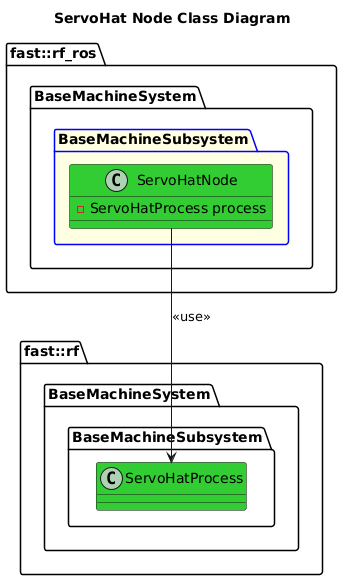
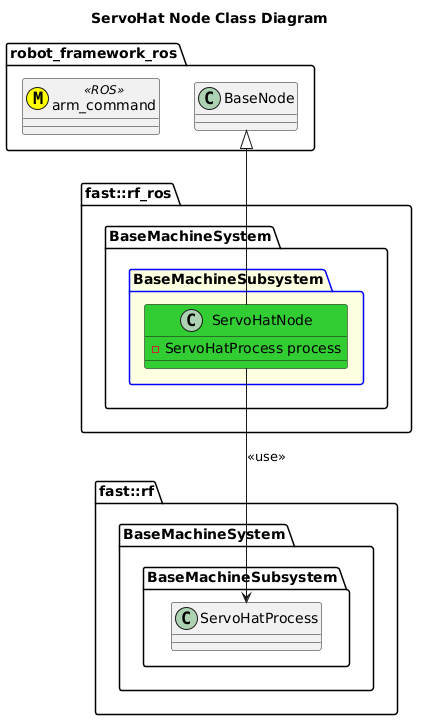
Work Complete.

diff --git a/Systems/UserInterface/Subsystems/RemoteControl/Nodes/TeleopControl/BasicTeleopControlNode/BasicTeleopControlNode.cpp b/Systems/UserInterface/Subsystems/RemoteControl/Nodes/TeleopControl/BasicTeleopControlNode/BasicTeleopControlNode.cpp
@@ -6,15 +6,16 @@ bool kill_node = false;
 
 using namespace fast::rf_ros;
 namespace fast::rf_ros::UserInterfaceSystem::RemoteControlSubsystem {
-    void BasicTeleopControlNode::joy_Callback(const sensor_msgs::Joy::ConstPtr& t_msg) {
-        sensor_msgs::Joy joy_msg = *t_msg;
-        process.new_joy(fast::rf_ros::utils::TranslateUtility::convert(joy_msg));
-    }
     void BasicTeleopControlNode::robot_armcommand_state_Callback(
         const robot_framework_ros::arm_command::ConstPtr& t_msg) {
         robot_framework_ros::arm_command msg = *t_msg;
         process.update_RobotArmCommand(fast::rf_ros::utils::TranslateUtility::convert(msg));
     }
+    void BasicTeleopControlNode::joy_Callback(const sensor_msgs::Joy::ConstPtr& t_msg) {
+        sensor_msgs::Joy joy_msg = *t_msg;
+        process.new_joy(fast::rf_ros::utils::TranslateUtility::convert(joy_msg));
+    }
+
     BasicTeleopControlNode::BasicTeleopControlNode() {}
     BasicTeleopControlNode::~BasicTeleopControlNode() {}
     bool BasicTeleopControlNode::init() {
@@ -47,21 +48,6 @@ namespace fast::rf_ros::UserInterfaceSystem::RemoteControlSubsystem {
             fast::rf::Logger::log_error("Unable to set Operation Mode");
             return false;
         }
-        std::string topic_joy_command;
-        std::string param_topic_joy_command = get_nodename() + "/topic_joystick_command";
-        if (n->getParam(param_topic_joy_command, topic_joy_command) == false) {
-            return false;
-        }
-
-        std::string topic_throttle_command;
-        std::string param_throttle_command = get_nodename() + "/topic_command_throttle";
-        if (n->getParam(param_throttle_command, topic_throttle_command) == false) {
-            return false;
-        }
-
-        joy_sub = n->subscribe<sensor_msgs::Joy>(get_robotnamespace() + topic_joy_command, 10,
-                                                 &BasicTeleopControlNode::joy_Callback, this);
-        twist_pub = n->advertise<geometry_msgs::Twist>(get_robotnamespace() + topic_throttle_command, 1);
 
         /**
          * @todo Make this config during AB#1767
@@ -77,6 +63,21 @@ namespace fast::rf_ros::UserInterfaceSystem::RemoteControlSubsystem {
         armstate_change_client =
             n->serviceClient<robot_framework_ros::arm_state_change>(get_robotnamespace() + "/arm_state_change");
 
+        std::string topic_joy_command;
+        std::string param_topic_joy_command = get_nodename() + "/topic_joystick_command";
+        if (n->getParam(param_topic_joy_command, topic_joy_command) == false) {
+            return false;
+        }
+
+        std::string topic_throttle_command;
+        std::string param_throttle_command = get_nodename() + "/topic_command_throttle";
+        if (n->getParam(param_throttle_command, topic_throttle_command) == false) {
+            return false;
+        }
+
+        joy_sub = n->subscribe<sensor_msgs::Joy>(get_robotnamespace() + topic_joy_command, 10,
+                                                 &BasicTeleopControlNode::joy_Callback, this);
+        twist_pub = n->advertise<geometry_msgs::Twist>(get_robotnamespace() + topic_throttle_command, 1);
         set_ready_to_arm(process.get_ready_to_arm());
         return true;
     }

diff --git a/Systems/BaseMachine/Subsystems/BaseMachine/Nodes/HatNodes/ServoHat/ServoHatNode.cpp b/Systems/BaseMachine/Subsystems/BaseMachine/Nodes/HatNodes/ServoHat/ServoHatNode.cpp
@@ -9,6 +9,10 @@ namespace fast::rf_ros::BaseMachineSystem::BaseMachineSubsystem {
 
     ServoHatNode::ServoHatNode() {}
     ServoHatNode::~ServoHatNode() {}
+    void ServoHatNode::robot_armcommand_state_Callback(const robot_framework_ros::arm_command::ConstPtr& t_msg) {
+        robot_framework_ros::arm_command msg = *t_msg;
+        process.update_RobotArmCommand(fast::rf_ros::utils::TranslateUtility::convert(msg));
+    }
     void ServoHatNode::drive_Callback([[maybe_unused]] const std_msgs::Float64::ConstPtr& t_msg, uint16_t channel) {
         uint16_t value = (uint16_t)t_msg->data;
         bool status = process.setServoValue(channel, value);
@@ -28,6 +32,14 @@ namespace fast::rf_ros::BaseMachineSystem::BaseMachineSubsystem {
             fast::rf::Logger::log_error("Unable to initialize Process!");
             return false;
         }
+
+        /**
+         * @todo Make this config during AB#1767
+         *
+         */
+        robot_arm_command_state_sub = n->subscribe<robot_framework_ros::arm_command>(
+            get_robotnamespace() + "/arm_command", 10, &ServoHatNode::robot_armcommand_state_Callback, this);
+
         std::string topic_left_drive;
         std::string param_left_drive = get_nodename() + "/topic_left_drive";
         if (n->getParam(param_left_drive, topic_left_drive) == false) {
@@ -54,16 +66,7 @@ namespace fast::rf_ros::BaseMachineSystem::BaseMachineSubsystem {
 
         return true;
     }
-    bool ServoHatNode::run_loop2() {
-        /**
-         * @todo Implement this during AB#1779
-         *
-         */
-        bool robot_armed = true;
-        if ((process.get_ready_to_arm().ready_to_arm == true) && (robot_armed == true)) {
-        }
-        return true;
-    }
+    bool ServoHatNode::run_loop2() { return true; }
     bool ServoHatNode::run_loop3() { return true; }
     bool ServoHatNode::run_100hz() { return true; }
     bool ServoHatNode::run_10hz() {

diff --git a/Systems/BaseMachine/Subsystems/BaseMachine/Nodes/HatNodes/ServoHat/test/test_ServoHatNode.cpp b/Systems/BaseMachine/Subsystems/BaseMachine/Nodes/HatNodes/ServoHat/test/test_ServoHatNode.cpp
@@ -1,4 +1,5 @@
 #include <gtest/gtest.h>
+#include <robot_framework_ros/arm_command.h>
 #include <robot_framework_ros/diagnostic.h>
 #include <robot_framework_ros/heartbeat.h>
 #include <robot_framework_ros/ready_to_arm.h>
@@ -11,6 +12,7 @@ using namespace fast::rf_ros;
 
 std::string robot_namespace = "/test/";
 std::string unittest_nodename = "nodeServoHat";
+std::string arm_command_topic = "/test/arm_command";
 uint64_t heartbeat_rx_count = 0;
 uint64_t diagnostic_rx_count = 0;
 uint64_t ready_to_arm_rx_count = 0;
@@ -28,6 +30,8 @@ TEST(ServoHatNode, TestBasics) {
     std::string ready_to_arm_topic = robot_namespace + unittest_nodename + "/ready_to_arm";
     ros::Subscriber ready_to_arm_sub = nh.subscribe(ready_to_arm_topic, 100, &ready_to_arm_Callback);
 
+    ros::Publisher arm_state_command_pub = nh.advertise<robot_framework_ros::arm_command>(arm_command_topic, 1);
+
     std::string leftdrive_topic = robot_namespace + "/left_drive";
     ros::Publisher leftdrive_pub = nh.advertise<std_msgs::Float64>(leftdrive_topic, 1);
 
@@ -42,13 +46,28 @@ TEST(ServoHatNode, TestBasics) {
     EXPECT_EQ(1, heartbeat_sub.getNumPublishers());
     EXPECT_EQ(1, diagnostic_sub.getNumPublishers());
     EXPECT_EQ(1, ready_to_arm_sub.getNumPublishers());
+    EXPECT_EQ(1, arm_state_command_pub.getNumSubscribers());
     EXPECT_EQ(1, leftdrive_pub.getNumSubscribers());
     EXPECT_EQ(1, rightdrive_pub.getNumSubscribers());
 
     sleep(1.0);  // Wait for ServoHatNode to Start.
+
     EXPECT_TRUE(heartbeat_rx_count > 0);
     EXPECT_TRUE(diagnostic_rx_count > 0);
     EXPECT_TRUE(ready_to_arm_rx_count > 0);
+
+    // Publish the Robot Arm Command State
+    robot_framework_ros::arm_command arm_command_state;
+    arm_command_state.armed_state.state = (uint8_t)fast::rf::ArmedState::ARMED;
+    arm_state_command_pub.publish(arm_command_state);
+
+    // Publism some drive commands
+    std_msgs::Float64 drive;
+    drive.data = 1500.0;
+    leftdrive_pub.publish(drive);
+    rightdrive_pub.publish(drive);
+
+    sleep(30.0);  // Leave enough time to exercise all control loops
 }
 int main(int argc, char** argv) {
     testing::InitGoogleTest(&argc, argv);

diff --git a/Systems/UserInterface/Subsystems/RemoteControl/Nodes/TeleopControl/BasicTeleopControlNode/BasicTeleopControlNode.hpp b/Systems/UserInterface/Subsystems/RemoteControl/Nodes/TeleopControl/BasicTeleopControlNode/BasicTeleopControlNode.hpp
@@ -112,18 +112,18 @@ namespace fast::rf_ros::UserInterfaceSystem::RemoteControlSubsystem {
         void thread_loop();
 
         /**
-         * @brief Process a Joystick Message
-         *
-         * @param t_msg
-         */
-        void joy_Callback(const sensor_msgs::Joy::ConstPtr& t_msg);
-
-        /**
          * @brief Process a RobotArm Commmand State
          * @todo Handle this in BaseNode during AB#1782
          * @param t_msg
          */
         void robot_armcommand_state_Callback(const robot_framework_ros::arm_command::ConstPtr& t_msg);
+
+        /**
+         * @brief Process a Joystick Message
+         *
+         * @param t_msg
+         */
+        void joy_Callback(const sensor_msgs::Joy::ConstPtr& t_msg);
 
        private:
         fast::rf::UserInterfaceSystem::RemoteControlSubsystem::BasicTeleopControlProcess

diff --git a/Systems/BaseMachine/Subsystems/BaseMachine/Nodes/HatNodes/ServoHat/ServoHatNode.hpp b/Systems/BaseMachine/Subsystems/BaseMachine/Nodes/HatNodes/ServoHat/ServoHatNode.hpp
@@ -9,6 +9,7 @@
  *
  */
 #pragma once
+#include <robot_framework_ros/arm_command.h>
 #include <std_msgs/Float64.h>
 
 #include <ServoHatDriverProcess/ServoHatDriverProcess.hpp>
@@ -110,6 +111,13 @@ namespace fast::rf_ros::BaseMachineSystem::BaseMachineSubsystem {
         void thread_loop();
 
         /**
+         * @brief Process a RobotArm Commmand State
+         * @todo Handle this in BaseNode during AB#1782
+         * @param t_msg
+         */
+        void robot_armcommand_state_Callback(const robot_framework_ros::arm_command::ConstPtr& t_msg);
+
+        /**
          * @brief Process a drive command
          *
          * @param t_msg
@@ -119,6 +127,7 @@ namespace fast::rf_ros::BaseMachineSystem::BaseMachineSubsystem {
 
        private:
         fast::rf::BaseMachineSystem::BaseMachineSubsystem::ServoHatDriverProcess process;  //!< Execution Process
+        ros::Subscriber robot_arm_command_state_sub;
         ros::Subscriber left_drive_sub;
         ros::Subscriber right_drive_sub;
     };